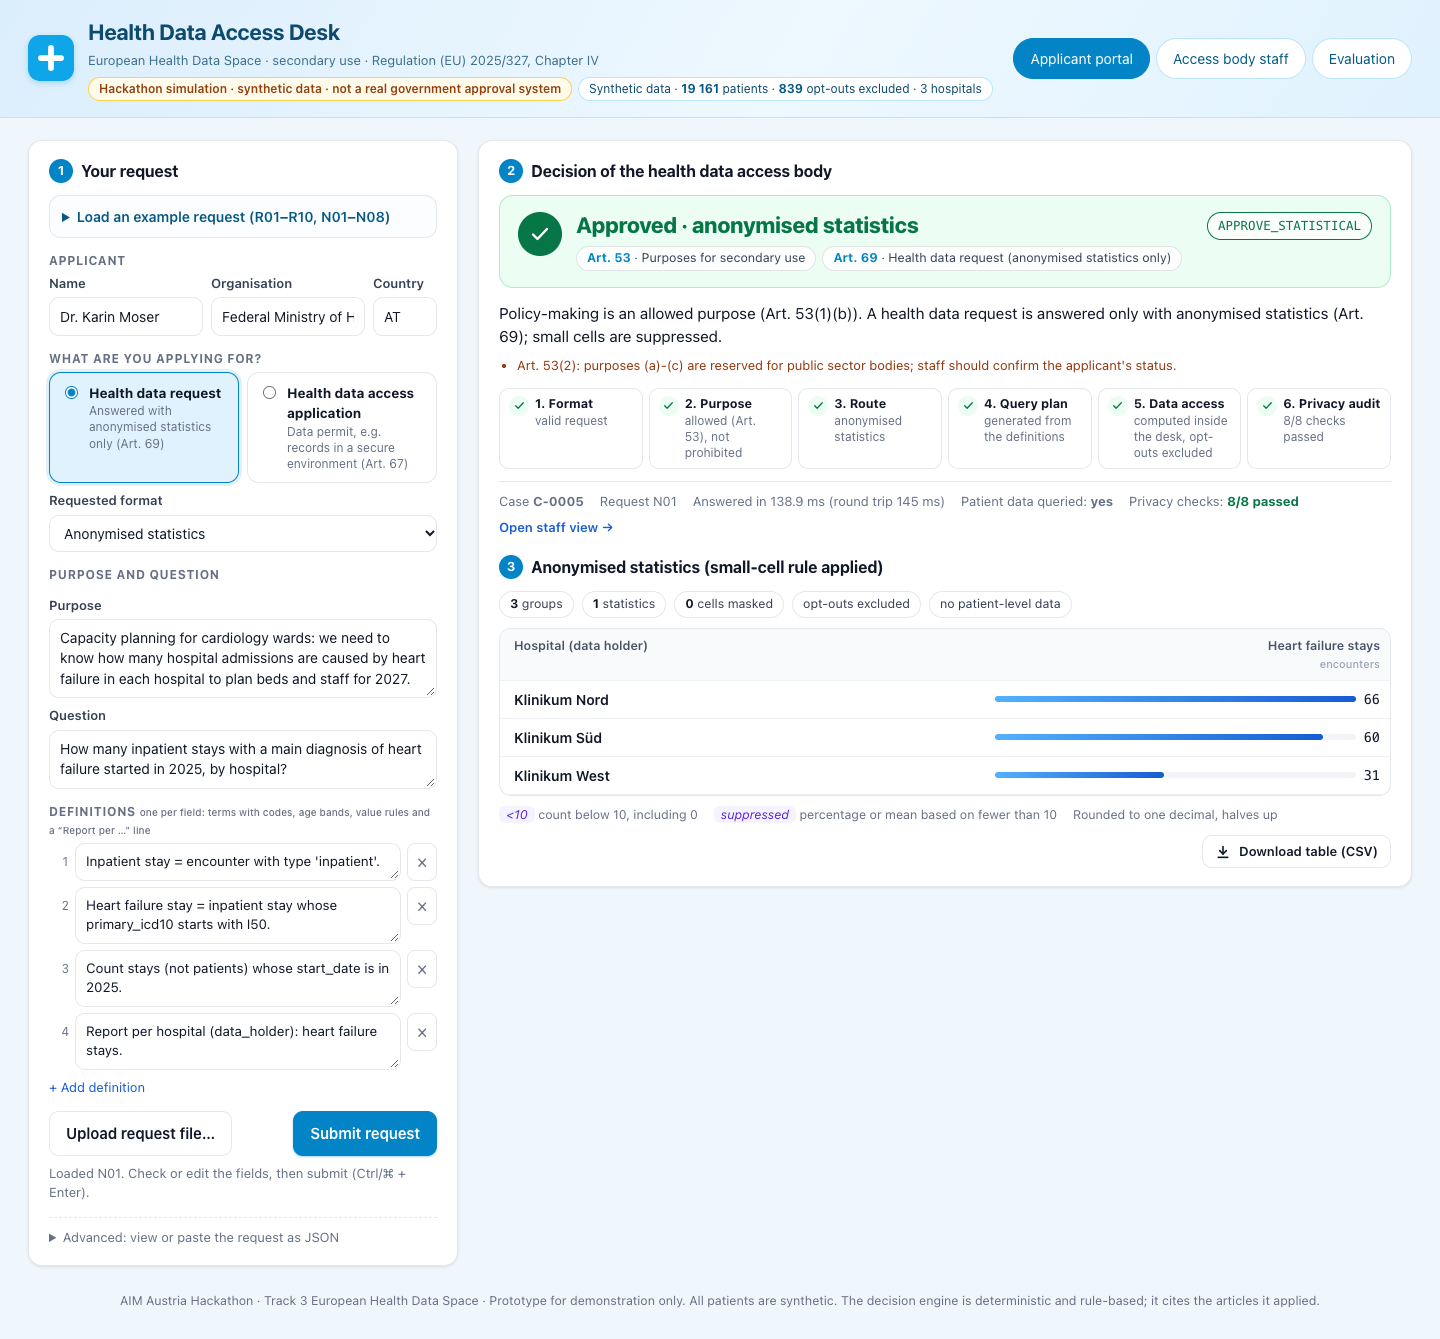
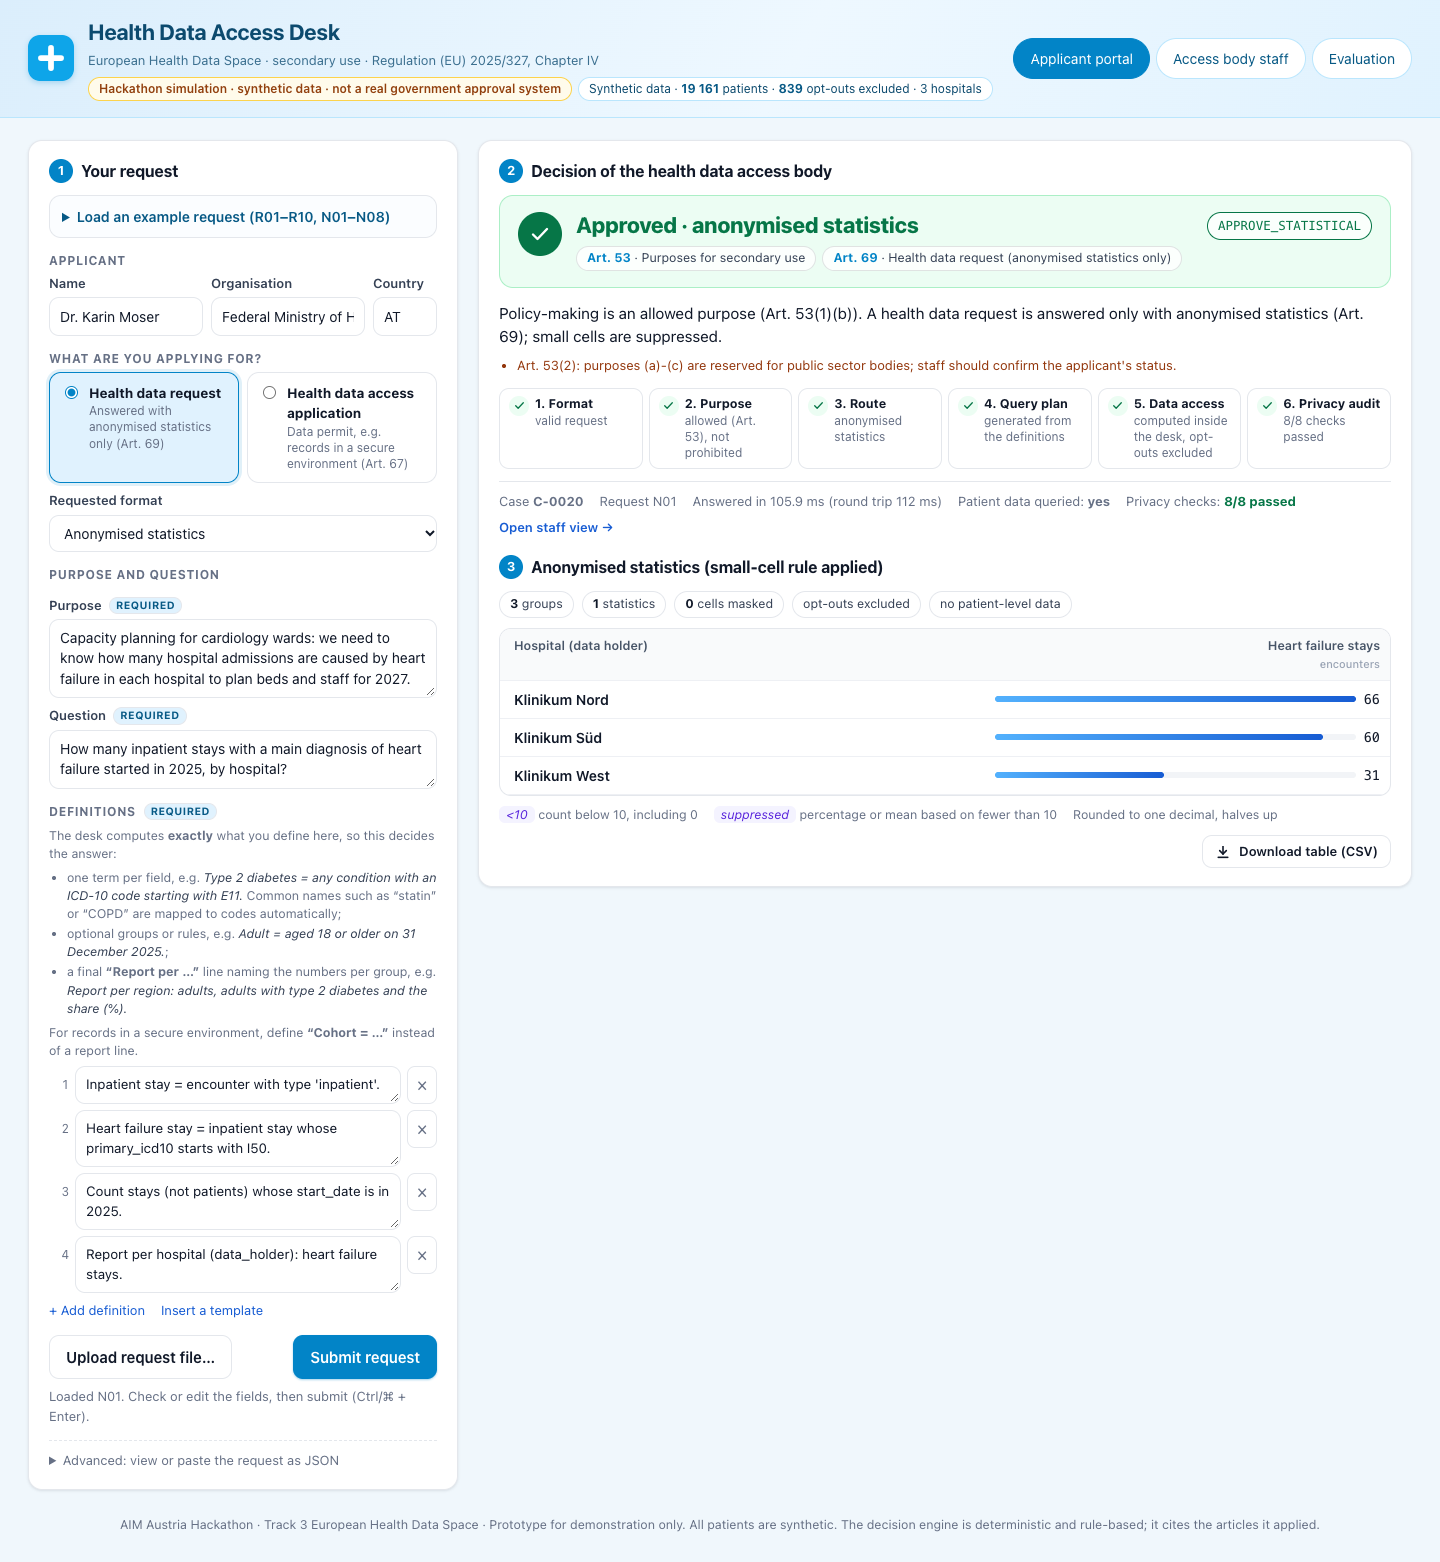
Form: scrollable text fields, explain why definitions matter, definition template
Purpose and question fields were cut off without a scrollbar (overflow hidden); text
fields now grow up to 320 px and scroll beyond that, and are re-measured on resize and
tab switches. The definitions section is marked required and explains that the desk
computes exactly what is defined there, with an 'Insert a template' button that fills
in a working example.

Generated with [Devin](https://devin.ai)

diff --git a/track3-ehds/web/app.js b/track3-ehds/web/app.js
@@ -87,6 +87,7 @@ function showTab(name) {
   document.querySelectorAll(".tab").forEach(t => t.classList.toggle("active", t.dataset.tab === name));
   document.querySelectorAll(".view").forEach(v => v.classList.toggle("active", v.id === `view-${name}`));
   if (name === "staff") loadCases();
+  if (name === "applicant") growAll();
 }
 document.querySelectorAll(".tab").forEach(t => t.addEventListener("click", () => showTab(t.dataset.tab)));
 
@@ -141,10 +142,14 @@ const form = { id: null, edited: false, keepRawJson: false };
 const jsonBox = $("#request-json");
 const advanced = $("#json-advanced");
 
+// Grow a text field with its content up to 320 px; beyond that it scrolls (CSS max-height + overflow-y: auto).
 function autoGrow(t) {
+  if (!t.offsetParent) return;  // hidden (other tab): measured again when it becomes visible
   t.style.height = "auto";
-  t.style.height = `${Math.max(38, t.scrollHeight + 2)}px`;
+  t.style.height = `${Math.min(320, Math.max(38, t.scrollHeight + 2))}px`;
 }
+const growAll = () => requestAnimationFrame(() => document.querySelectorAll("#request-form textarea").forEach(autoGrow));
+window.addEventListener("resize", growAll);
 
 function addDefRow(value = "", focus = false) {
   const t = el("textarea", { class: "def-input", rows: "1", spellcheck: "false",
@@ -238,6 +243,15 @@ $("#request-form").addEventListener("input", (ev) => {
 });
 $("#request-form").addEventListener("change", markEdited);
 $("#add-def").addEventListener("click", () => addDefRow("", true));
+$("#template-def").addEventListener("click", () => {
+  [...document.querySelectorAll("#f-defs .def-row")].filter(r => !r.querySelector("textarea").value.trim()).forEach(r => r.remove());
+  ["Type 2 diabetes = any condition with an ICD-10 code starting with E11.",
+    "Adult = aged 18 or older on 31 December 2025.",
+    "Report per region: adults, adults with type 2 diabetes and the share of adults with type 2 diabetes (%)."]
+    .forEach(d => addDefRow(d));
+  markEdited();
+  $("#editor-hint").textContent = "Template inserted: replace the term, code and groups with what you need.";
+});
 document.querySelectorAll('input[name="f-type"]').forEach(i => i.addEventListener("change", () => {
   // sensible default: records only make sense for an access application
   if (i.checked && i.value === "health data request") $("#f-format").value = "anonymised statistics";

diff --git a/track3-ehds/web/index.html b/track3-ehds/web/index.html
@@ -71,15 +71,27 @@
             </fieldset>
             <fieldset>
               <legend>Purpose and question</legend>
-              <label>Purpose<textarea id="f-purpose" rows="3"
+              <label>Purpose <span class="req">required</span><textarea id="f-purpose" rows="3"
                 placeholder="What will the data be used for? If anonymised statistics are not enough, explain why."></textarea></label>
-              <label>Question<textarea id="f-question" rows="2"
+              <label>Question <span class="req">required</span><textarea id="f-question" rows="2"
                 placeholder="e.g. How many adults have type 2 diabetes in each region?"></textarea></label>
             </fieldset>
             <fieldset>
-              <legend>Definitions <small>one per field: terms with codes, age bands, value rules and a “Report per …” line</small></legend>
+              <legend>Definitions <span class="req">required</span></legend>
+              <p class="help">The desk computes <b>exactly</b> what you define here, so this decides the answer:</p>
+              <ul class="help">
+                <li>one term per field, e.g. <i>Type 2 diabetes = any condition with an ICD-10 code starting with E11.</i>
+                  Common names such as “statin” or “COPD” are mapped to codes automatically;</li>
+                <li>optional groups or rules, e.g. <i>Adult = aged 18 or older on 31 December 2025</i>;</li>
+                <li>a final <b>“Report per …”</b> line naming the numbers per group, e.g.
+                  <i>Report per region: adults, adults with type 2 diabetes and the share (%).</i></li>
+              </ul>
+              <p class="help">For records in a secure environment, define <b>“Cohort = …”</b> instead of a report line.</p>
               <div id="f-defs" class="defs"></div>
-              <button type="button" class="link-btn" id="add-def">+ Add definition</button>
+              <div class="def-actions">
+                <button type="button" class="link-btn" id="add-def">+ Add definition</button>
+                <button type="button" class="link-btn" id="template-def">Insert a template</button>
+              </div>
             </fieldset>
           </form>
 

diff --git a/track3-ehds/web/styles.css b/track3-ehds/web/styles.css
@@ -107,7 +107,15 @@ main { padding: 22px 28px 8px; max-width: 1520px; margin: 0 auto; }
 .form input:not([type=radio]), .form select, .form textarea { display: block; width: 100%; margin-top: 4px;
   border: 1px solid var(--line); border-radius: 10px; padding: 8px 10px; font: inherit; font-size: 14px; font-weight: 400;
   background: #fff; color: var(--ink); }
-.form textarea { resize: vertical; line-height: 1.45; min-height: 38px; overflow: hidden; }
+.form textarea { resize: vertical; line-height: 1.45; min-height: 38px; max-height: 320px; overflow-y: auto; }
+.req { display: inline-block; margin-left: 4px; font-size: 10.5px; font-weight: 700; text-transform: uppercase;
+  letter-spacing: .04em; color: var(--brand-ink); background: var(--brand-soft); border-radius: 999px; padding: 0 6px;
+  vertical-align: 1px; }
+.help { margin: 2px 0 6px; font-size: 12.5px; line-height: 1.45; color: var(--muted); }
+ul.help { padding-left: 18px; }
+ul.help li { margin: 2px 0; }
+.help i { color: var(--ink-2); }
+.def-actions { display: flex; gap: 16px; margin-top: 8px; }
 .form input:focus, .form select:focus, .form textarea:focus { outline: none; border-color: #7dd3fc;
   box-shadow: 0 0 0 3px rgba(125, 211, 252, .35); }
 .row3 { display: grid; grid-template-columns: 1fr 1fr 64px; gap: 8px; }
@@ -127,7 +135,6 @@ main { padding: 22px 28px 8px; max-width: 1520px; margin: 0 auto; }
 .def-del { border: 1px solid var(--line); background: #fff; color: var(--muted); border-radius: 8px; height: 38px;
   cursor: pointer; font-size: 18px; line-height: 1; }
 .def-del:hover { color: var(--red); border-color: var(--red-line); background: var(--red-bg); }
-#add-def { margin-top: 8px; }
 .advanced { margin-top: 14px; border-top: 1px dashed var(--line); padding-top: 10px; }
 .advanced > summary { cursor: pointer; font-size: 13px; color: var(--muted); }
 @media (max-width: 600px) { .row3, .choice { grid-template-columns: 1fr; } }

diff --git a/track3-ehds/README.md b/track3-ehds/README.md
@@ -33,7 +33,7 @@ Then open **http://127.0.0.1:8000**. Use `python3 -m desk serve --port 8080` to 
 | Evaluate R01–R10 three times against `expected.json` | `python3 -m desk evaluate` (add `--save` to write `reports/`) |
 | Same evaluation through the running web server | `python3 -m desk evaluate --url http://127.0.0.1:8000` |
 | Unit and integration tests (90) | `python3 -m unittest discover -s tests -t .` |
-| Browser end-to-end test (23 checks, needs Node ≥ 22 and Chrome) | `node tests/e2e/browser_flow.mjs http://127.0.0.1:8000` |
+| Browser end-to-end test (25 checks, needs Node ≥ 22 and Chrome) | `node tests/e2e/browser_flow.mjs http://127.0.0.1:8000` |
 | Process one file on the command line | `python3 -m desk run new_requests/N01.json [--staff]` |
 
 ### Running it online
@@ -313,7 +313,7 @@ CSV files directly. That calculation shares no code with the desk.
   - a period named only in the question is refused;
   - the case register and SPE access log survive a restart;
   - SPE analyses need the permit token and mask small cells.
-- `tests/e2e/browser_flow.mjs`: headless Chrome through the DevTools protocol (no npm packages), 23 checks:
+- `tests/e2e/browser_flow.mjs`: headless Chrome through the DevTools protocol (no npm packages), 25 checks:
   - the demo flow: R10 rejection, R08/R01 statistics, R05 SPE with blocked download, access log and an
     aggregate analysis inside the SPE, N01,
   - the processing steps and the CSV export,
